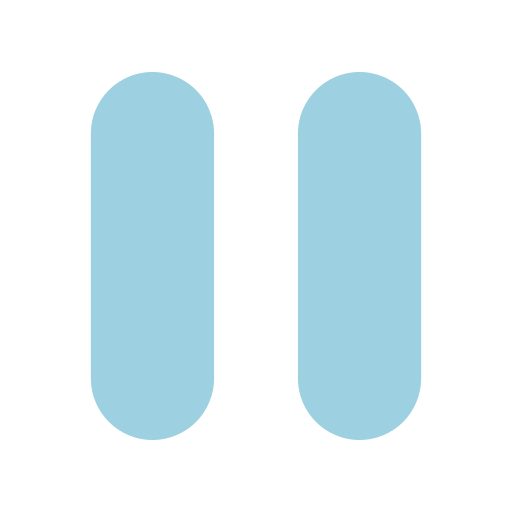
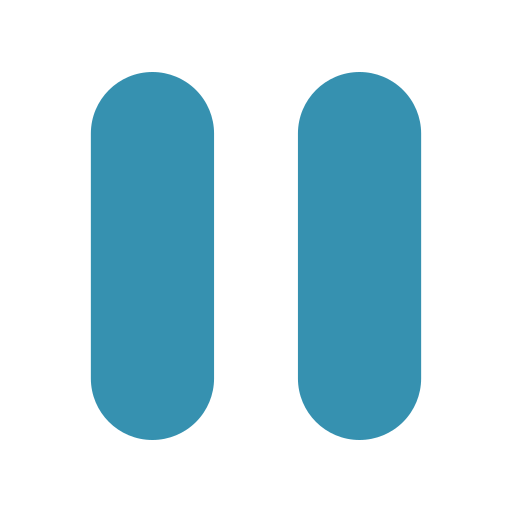
polishing to do lists and changing play buttons; added code for creating to do list items too

diff --git a/index.html b/index.html
@@ -18,7 +18,7 @@
 
     <main>
       <section id=TOP>
-      <div class="welcome"><h2>Happy Studying, Shelby!</h2></div>
+      <div class="welcome"><h2>Happy Studying!</h2></div>
       <section class="top">
         <div class="timer">
           <div class="top-buttons">  
@@ -39,7 +39,7 @@
               </svg>
           </div>
           <div class="main-buttons">
-              <div><button class="timer-button" id="restart"><img src="previous.png"></button></div>
+              <div><button class="timer-button" id="restart"><img src="back.png"></button></div>
               <div><button class="timer-button" id="play"><img src="play.png"></button></div>
               <div><button class="timer-button" id="pause"><img src="pause.png"></button></div>
             </div>
@@ -57,7 +57,7 @@
         </div>
         </div>
         <div class="mytodo">
-          <div><h2>My To Do List</h2></div>
+          <div><h3>My To Do List</h3></div>
           <div class="todo">
             <input
               type="text"
@@ -65,22 +65,16 @@
               class="todoinput"
               placeholder="Add task"
             />
-            <button class="add-button"><img class="plusimg" src="plus.png"></button>
+            <img class="plusimg" id="addtask" src="plus.png" onclick="makeToDoitem();">
           </div>
-          <div class="my-list-items">
-            <ul>
-              <li><label><input type="checkbox">Homework 1</label></li>
-              <li><label><input type="checkbox">Homework 2</label></li>
-              <li><label><input type="checkbox">Lab 1</label></li>
-            </ul>
-          </div>
+          <ul id="my-list-items"></ul>
         </div>
       </section>
       </section>
       <section class="bottom">
         <div class="shared-to-do">
-          <h2>Shared To Do List</h2>
-          <div><h5>Shelby, Alice, Jeff</h5></div>
+          <h3>Shared To Do List</h3>
+          <h5 id="members">Shelby, Alice, Jeff</h5>
           <div class="todo">
             <input
               type="text"
@@ -88,15 +82,10 @@
               class="todoinput"
               placeholder="Add task"
             />
-          <button>Add Task</button>
+            <img class="plusimg" src="plus.png" onclick="makeToDoitem();">
           </div>
-          <div>
-            <ul>
-              <li>Homework 1</li>
-              <li>Homework 2</li>
-              <li>Lab 1</li>
-            </ul>
-          </div>
+          <h5 id="message"></h5>
+          <ul class="my-list-items"></ul>
         </div>
       </section>
     </main>
@@ -106,5 +95,6 @@
       <div></div><a href="https://github.com/H3bby/startup">GitHub</a></div>
       <div>Icons by:<a href="https://www.flaticon.com/packs/user-interface-2706">Indra Maulana Yusuf</a></div>
     </footer>
+    <script src="index.js"></script>
   </body>
 </html>

diff --git a/index.css b/index.css
@@ -61,7 +61,7 @@
  .top {
     display: flex;
     flex-direction: row;
-    justify-content: start;
+    justify-content: space-evenly;
   }
 
   .timer {
@@ -77,7 +77,7 @@
   .timer-button {
     width: 100px;
     height: 100px;
-    background-color: #EBF6F9;
+    background-color: #9dd0e1;
     border: none;
   }
 
@@ -165,10 +165,10 @@
   padding: 0 0.5em;
   box-shadow: 0 0 10px 5px #e8e8e3;
   border-radius: 20px;
-  margin: 0 1em;
+  margin-left: 10px;
+  margin-right: 100px;
   align-items: center;
   flex-direction: column;
-  position: relative;
 }
 
 .todo {
@@ -178,7 +178,7 @@
 
 .todoinput {
   background-color: white;
-  border-radius: 7px;
+  border-radius: 20%;
   border: none;
   padding: 7px;
   color: #ADD8E6;
@@ -186,19 +186,14 @@
   width: 250px;
 }
 
-.add-button {
-  width: 25px;
-  height: 25px;
-  background-color: #76bdd5;
-  border: none;
-}
-
 .plusimg {
+  cursor: pointer;
+  margin-left: 5px;
   width: 25px;
   height: 25px;
 }
 
-.my-list-items {
+#my-list-items {
   position: absolute;
   top: 40%;
   left: 0%;
@@ -206,20 +201,36 @@
   height: 250px;
 }
 
-li {
+ul li {
   padding: 3px;
   font-size: 18px;
   list-style-type: none;
 }
 
+li {
+  display: flex;
+  align-items: center;
+  justify-content: space-between;
+  background: #ebf6f9;
+  border-radius: 5px;
+}
+
 /* SHAED TO DO */
+
+.bottom {
+  display: flex;
+  flex-direction: row;
+  margin-top: 30px;
+  margin-bottom: 40px;
+  justify-content: space-evenly;
+}
 
 .shared-to-do {
   display: flex;
   background-color: #d8edf3;
   width: 450px;
   height: 400px;
-  padding: 0 0.5em;
+  padding: 0;
   box-shadow: 0 0 10px 5px #e8e8e3;
   border-radius: 20px;
   margin: 0 1em;
@@ -228,9 +239,15 @@ li {
   position: relative;
 }
 
-.todo {
-  display: flex;
-  align-items: center;
+h3 {
+  font-size: 25px;
+}
+
+#members {
+  margin: 0px;
+  color: #3691b0;
+  position: relative;
+  top: -5%;
 }
 
 .todoinput {
@@ -270,11 +287,6 @@ li {
 }
 
 /* BOTTOM SECTIONS */
-
-.bottom {
-  display: flex;
-  flex-direction: row;
-}
 
 footer {
   flex: 0 50px;

diff --git a/index.js b/index.js
@@ -1,0 +1,33 @@
+/* TIME */
+
+/* TO DO LIST */
+
+const todoAddition = document.getElementById("todotext");
+const listItems = document.getElementById("my-list-items");
+const addUpdate = document.getElementById("addtask");
+
+let todo = JSON.parse(localStorage.getItem("todolist"));
+if (!todo) {
+  todo = [];
+}
+
+function makeToDoitem() {
+    if (todoAddition.value === "") {
+      todoAddition.focus();
+      return;
+    }
+  
+      let li = document.createElement("li");
+      const todoItems = `<div title="Hit Double Click and Complete" ondblclick="CompletedToDoItems(this)">${todoValue.value}</div><div>
+                      <img class="delete todo-controls" onclick="DeleteToDoItems(this)" src="/images/delete.png" /></div></div>`;
+      li.innerHTML = todoItems;
+      listItems.appendChild(li);
+  
+      if (!todo) {
+        todo = [];
+      }
+      let itemList = { item: todoAddition.value, status: false };
+      todo.push(itemList);
+      setLocalStorage();
+      todoAddition.value = "";
+    };
